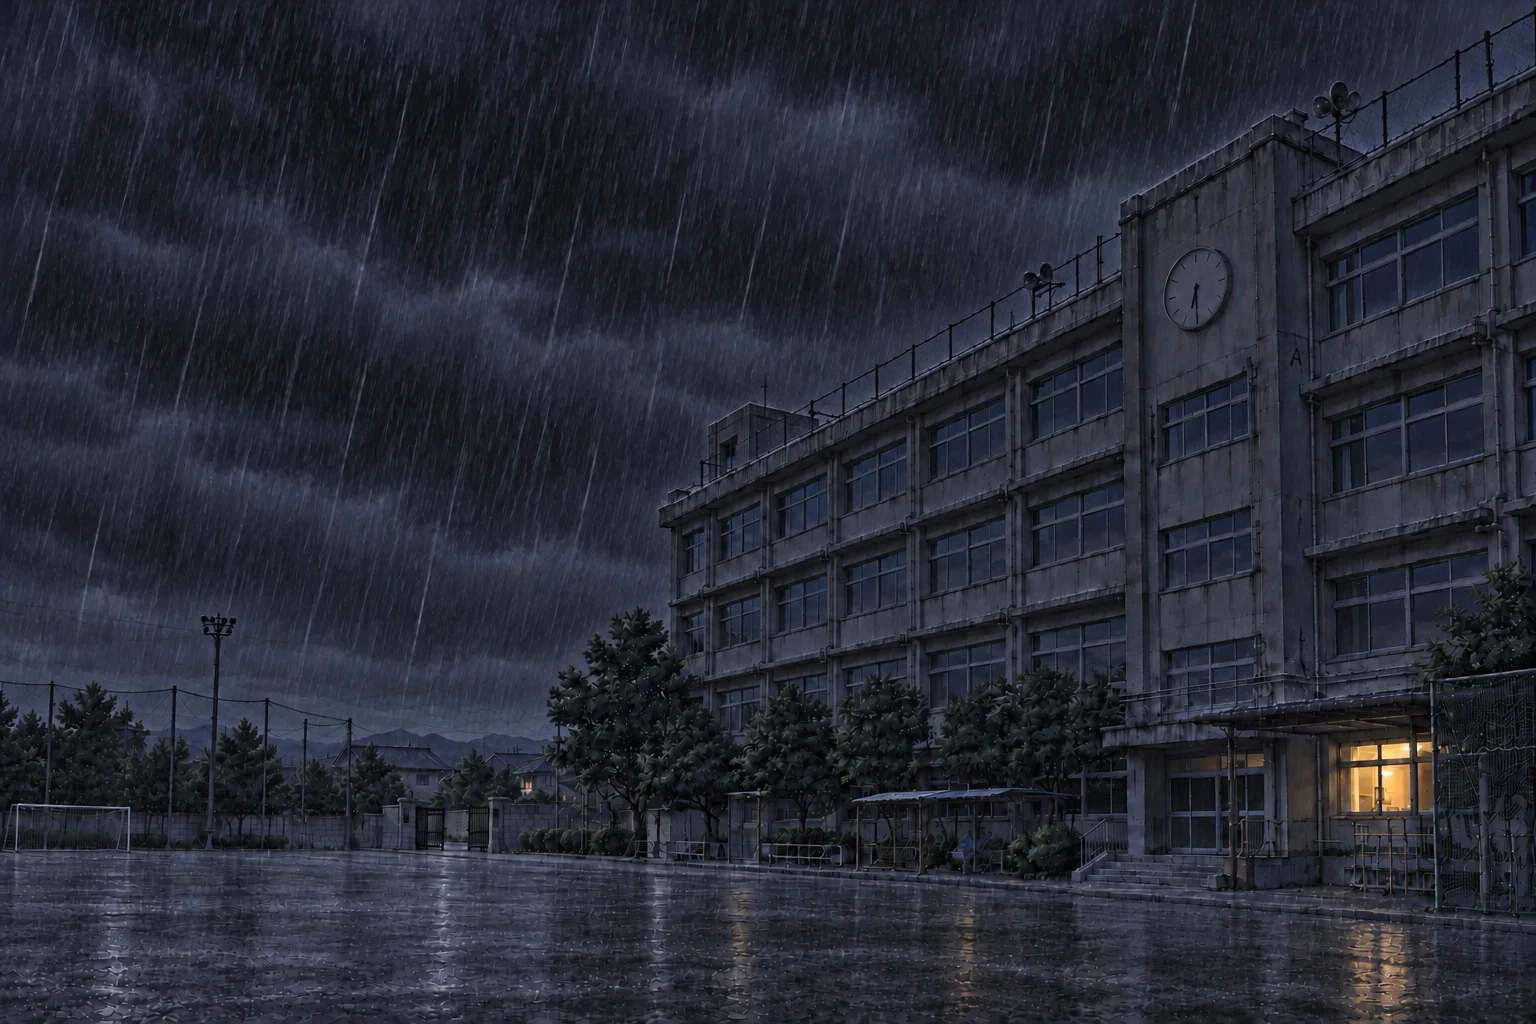
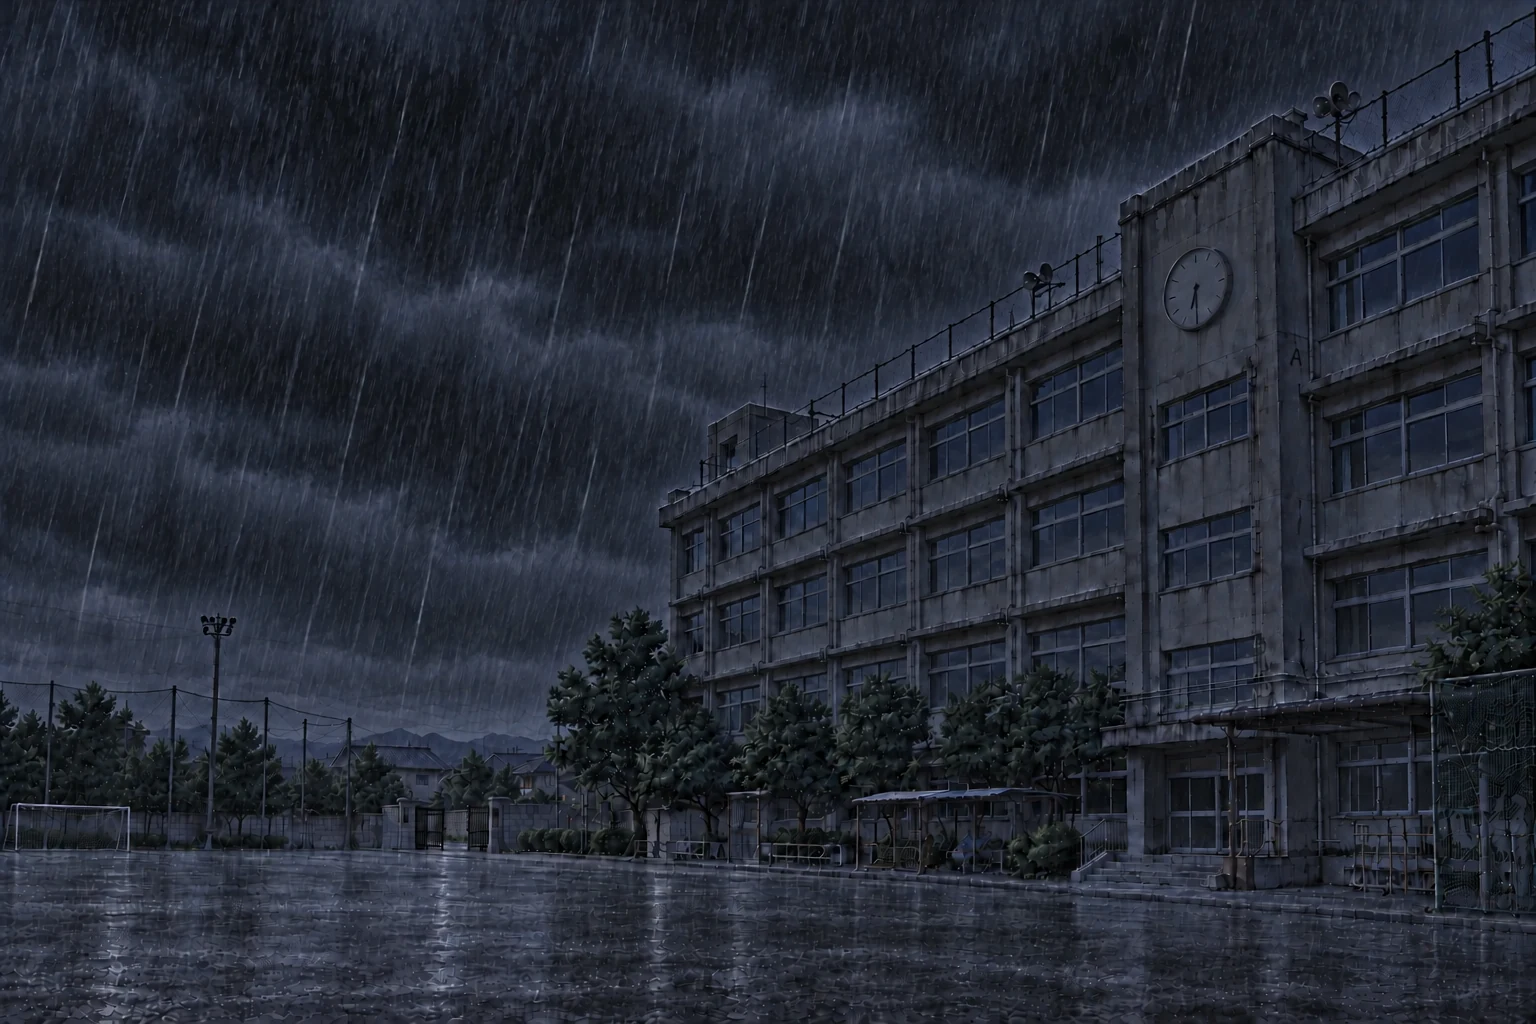
屋上の途中のタイトル：保健室の明かりも消えた校舎に（雨・雨なしの両方）

Changed region(s): [[0.7812, 0.7188, 0.9375, 0.8125], [0.875, 0.875, 0.9375, 1.0], [0.625, 0.9062, 0.6562, 0.9375]]

diff --git a/index.html b/index.html
@@ -6620,7 +6620,7 @@
     ov.style.setProperty('--title-img', `url("img/${P.endings && P.endings.TRUE ? 'title_1200' : TITLE_IMG[Math.min(Object.keys(P.cur.results).length, 5)]}.webp")`);
     // 屋上の途中なら、タイトルも屋上の時刻（18:30）の校舎。雨の途中で中断していたら、雨の差分（暗い空気と雨の筋）にして雨の音を続ける
     const rainy = !!(roof && roof.rain);
-    if (roof) ov.style.setProperty('--title-img', `url("img/${rainy ? 'title_1830_rain' : 'title_1830'}.webp")`);   // 雨の途中なら、雨空の校舎（Q122）
+    if (roof) ov.style.setProperty('--title-img', `url("img/${rainy ? 'title_1830_rain' : 'title_1830_dark'}.webp")`);   // 屋上の途中：五人の教室の明かりは消えている（保健室も）。雨の途中なら雨空の校舎
     ov.classList.toggle('rainy', rainy);
     windSE(false, 2);
     if (rainy) { if (audioReady) rainSE(true, 2); } else rainSE(false, 2);
